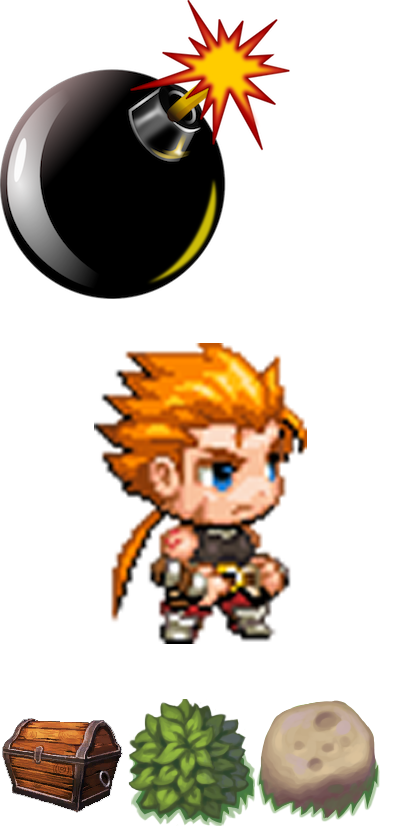
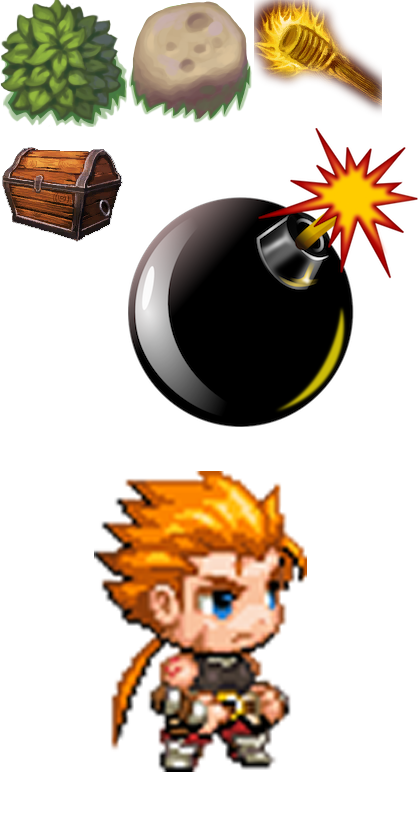
#157 Add actual effect of torch.

diff --git a/react-frontend/src/pages/Gaming/GamePanel/utils/pixi.js b/react-frontend/src/pages/Gaming/GamePanel/utils/pixi.js
@@ -5,7 +5,7 @@ import {
   updatePhase
 } from "./misc";
 import Obj from "./obj";
-import { mainControl, gameStatus } from '../../../../logic/MainControl';
+import { mainControl } from '../../../../logic/MainControl';
 
 // `setup` function will run when the image has loaded
 export default class PixiComponent {
@@ -63,7 +63,7 @@ export default class PixiComponent {
     const id = this.resources[this.gpJson].textures;
     const backgroundArray = this.mapId;
     const transparentArray = this.mapIdt;
-
+    this.bg = [];
     for (let i = 0; i < row; i++)
       for (let j = 0; j < col; j++) {
         const background = new Obj(
@@ -82,6 +82,7 @@ export default class PixiComponent {
           j * width / row,
           i * height / col
         );
+        this.bg.push(trans);
         trans.addTo(gameScene);
       }
 
@@ -103,6 +104,15 @@ export default class PixiComponent {
       null, false
     );
     this.bomb.addTo(gameScene);
+
+    this.torch = new Obj(
+      objId['torch.png'],
+      width / row,
+      height / col,
+      0, 0,
+      null, false
+    );
+    this.torch.addTo(gameScene);
 
     const chaId = this.resources[this.chaJson].textures;
 
@@ -185,12 +195,18 @@ export default class PixiComponent {
           py = convertY(player.enemy[i].pos['x'], height, col);
         const baseEnmDir = player.enemy[i].dir;
         this.mEnemy[i].update(px, py, 1*FPS, FPS, baseEnmDir, enmId);
+      }
 
+      for (let i = 0; i < row * col; i++) {
+        console.log(i);
+        this.bg[i].obj.visible = true;
       }
 
       const px = convertX(player.character.pos['y'], width, row),
         py = convertY(player.character.pos['x'], height, col);
       this.mCharacter.update(px, py, 1*FPS, FPS, baseDir, chaId);
+      this.bomb.obj.visible = false;
+      this.torch.obj.visible = false;
       this.timeStatus = 0;
       this.updatePrevPos();
       player.nextStep();
@@ -219,17 +235,36 @@ export default class PixiComponent {
 
       if (mainControl.player.board.bombPos.x !== -1) {
         if (this.timeStatus === 0) {
-            this.bomb.obj.x = convertX(mainControl.player.board.bombPos['y'] + 1, width, row);
-            this.bomb.obj.y = convertY(mainControl.player.board.bombPos['x'] + 1, height, col);
+            this.bomb.obj.x = convertX(mainControl.player.board.bombPos['y'], width, row);
+            this.bomb.obj.y = convertY(mainControl.player.board.bombPos['x'], height, col);
             this.bomb.obj.visible = true;
         }
         else if (this.timeStatus === 30){
           this.bomb.obj.visible = false;
         }
       }
+
+      if (mainControl.player.board.torchPos.x !== -1) {
+        if (this.timeStatus === 0) {
+            this.torch.obj.x = convertX(mainControl.player.board.torchPos['y'], width, row);
+            this.torch.obj.y = convertY(mainControl.player.board.torchPos['x'], height, col);
+            this.torch.obj.visible = true;
+        }
+        else if (this.timeStatus === 30) {
+          this.torch.obj.visible = false;
+        }
+        else if (this.timeStatus === 50) {
+          const i = mainControl.player.board.torchPos['y'];
+          const j = mainControl.player.board.torchPos['x'];
+          console.log(this.bg[row*i+j], i, j);
+          this.bg[row * j + i].obj.visible = false;
+        }
+      }
     }
     else if (status >= 2) {
       this.timeStatus = 0;
+      this.torch.obj.visible = false;
+      this.bomb.obj.visible = false;
       this.state = this.end;
     }
   }

diff --git a/react-frontend/src/pages/Gaming/GamePanel/utils/misc.js b/react-frontend/src/pages/Gaming/GamePanel/utils/misc.js
@@ -1,11 +1,11 @@
 import * as PIXI from "pixi.js";
 
 export function convertX(x, width, row) {
-  return parseInt(x * width / row + 6, 10);
+  return parseInt(x * width / row, 10);
 }
 
 export function convertY(x, height, col) {
-  return parseInt(x * height / col - height / col / 2, 10);
+  return parseInt(x * height / col, 10);
 }
 
 export function canvasSetup() {

diff --git a/react-frontend/src/pages/Gaming/GamePanel/utils/obj.js b/react-frontend/src/pages/Gaming/GamePanel/utils/obj.js
@@ -20,6 +20,7 @@ export default class Obj {
     this.obj.x = px;
     this.obj.y = py;
     this.phase = phase;
+    this.obj.visible = true;
     this.obj.texture = res[`${10 + dir * 10 + updatePhase(this.phase / FPS)}.png`];
   }
   moveTo(px, py, FPS, dir, res, state) {
